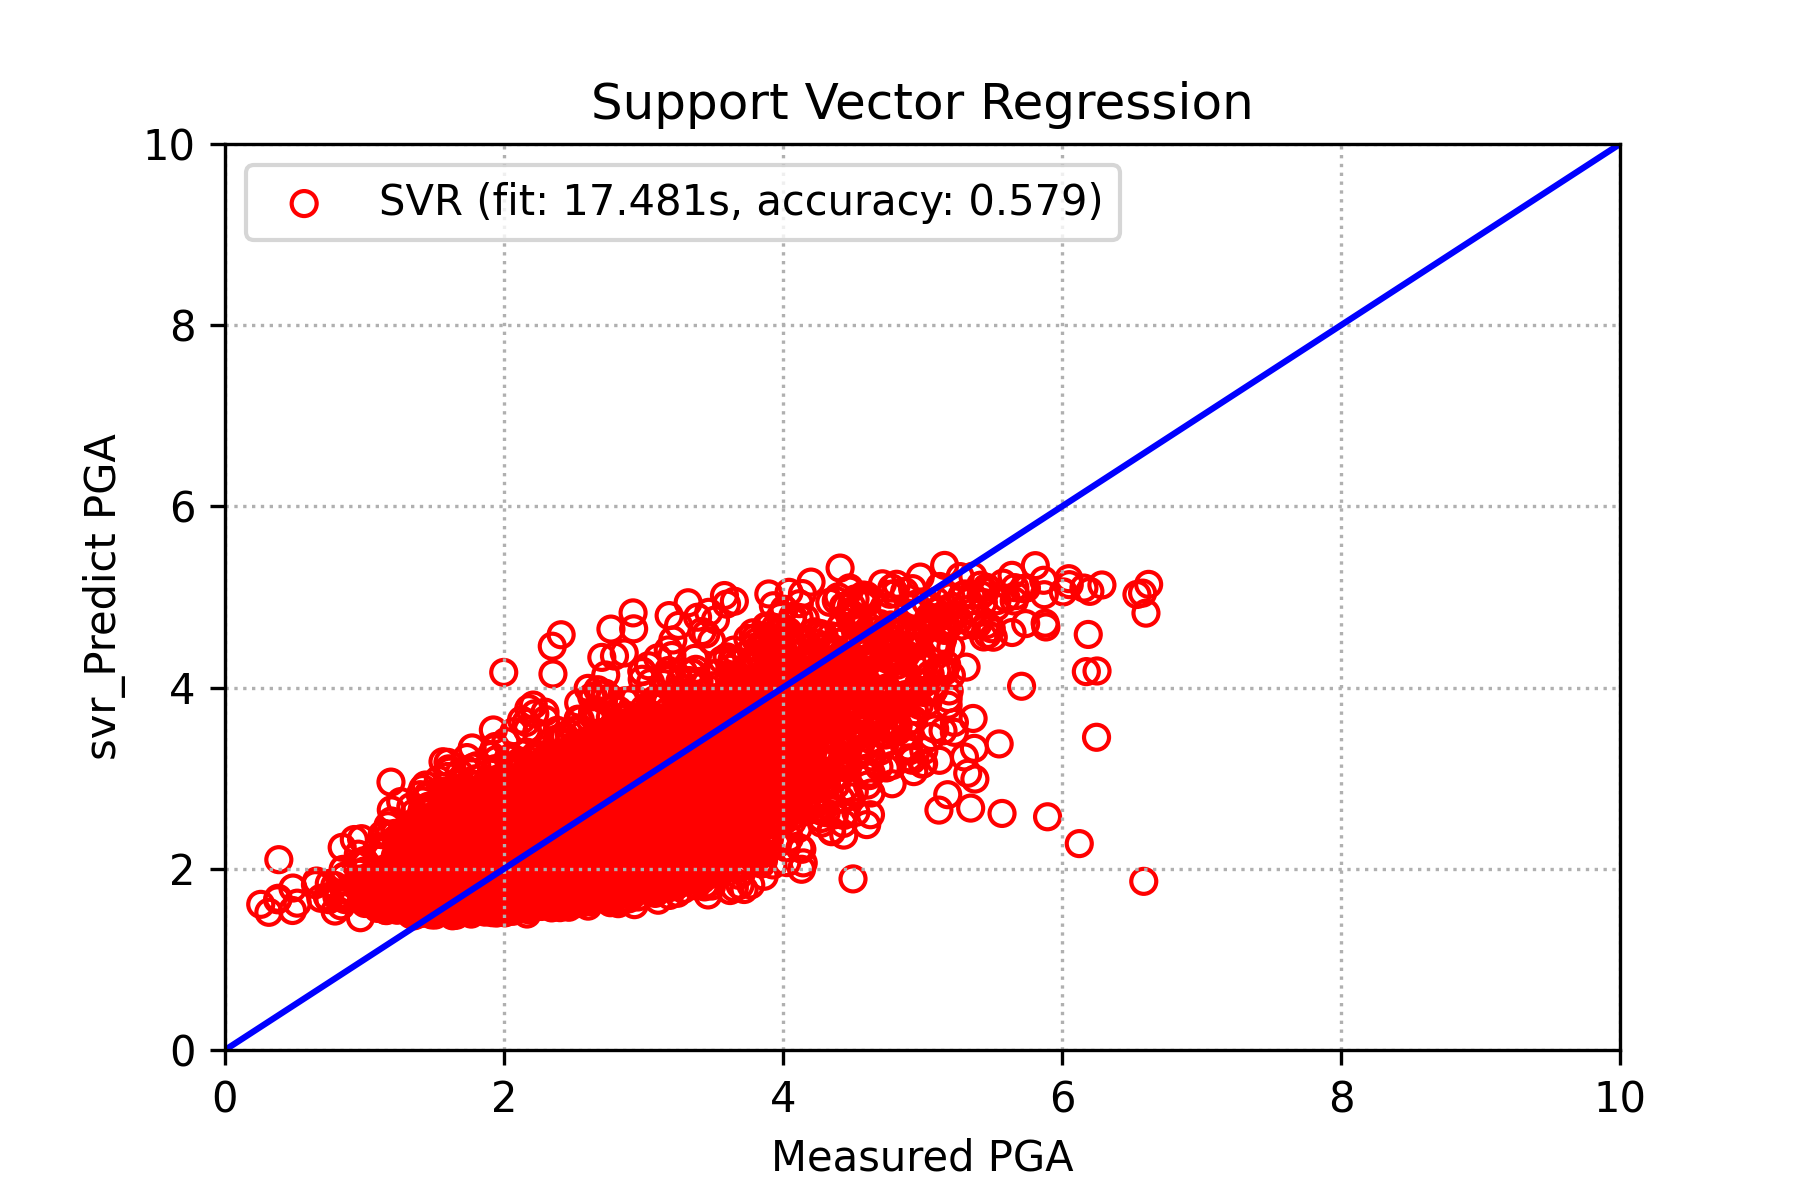
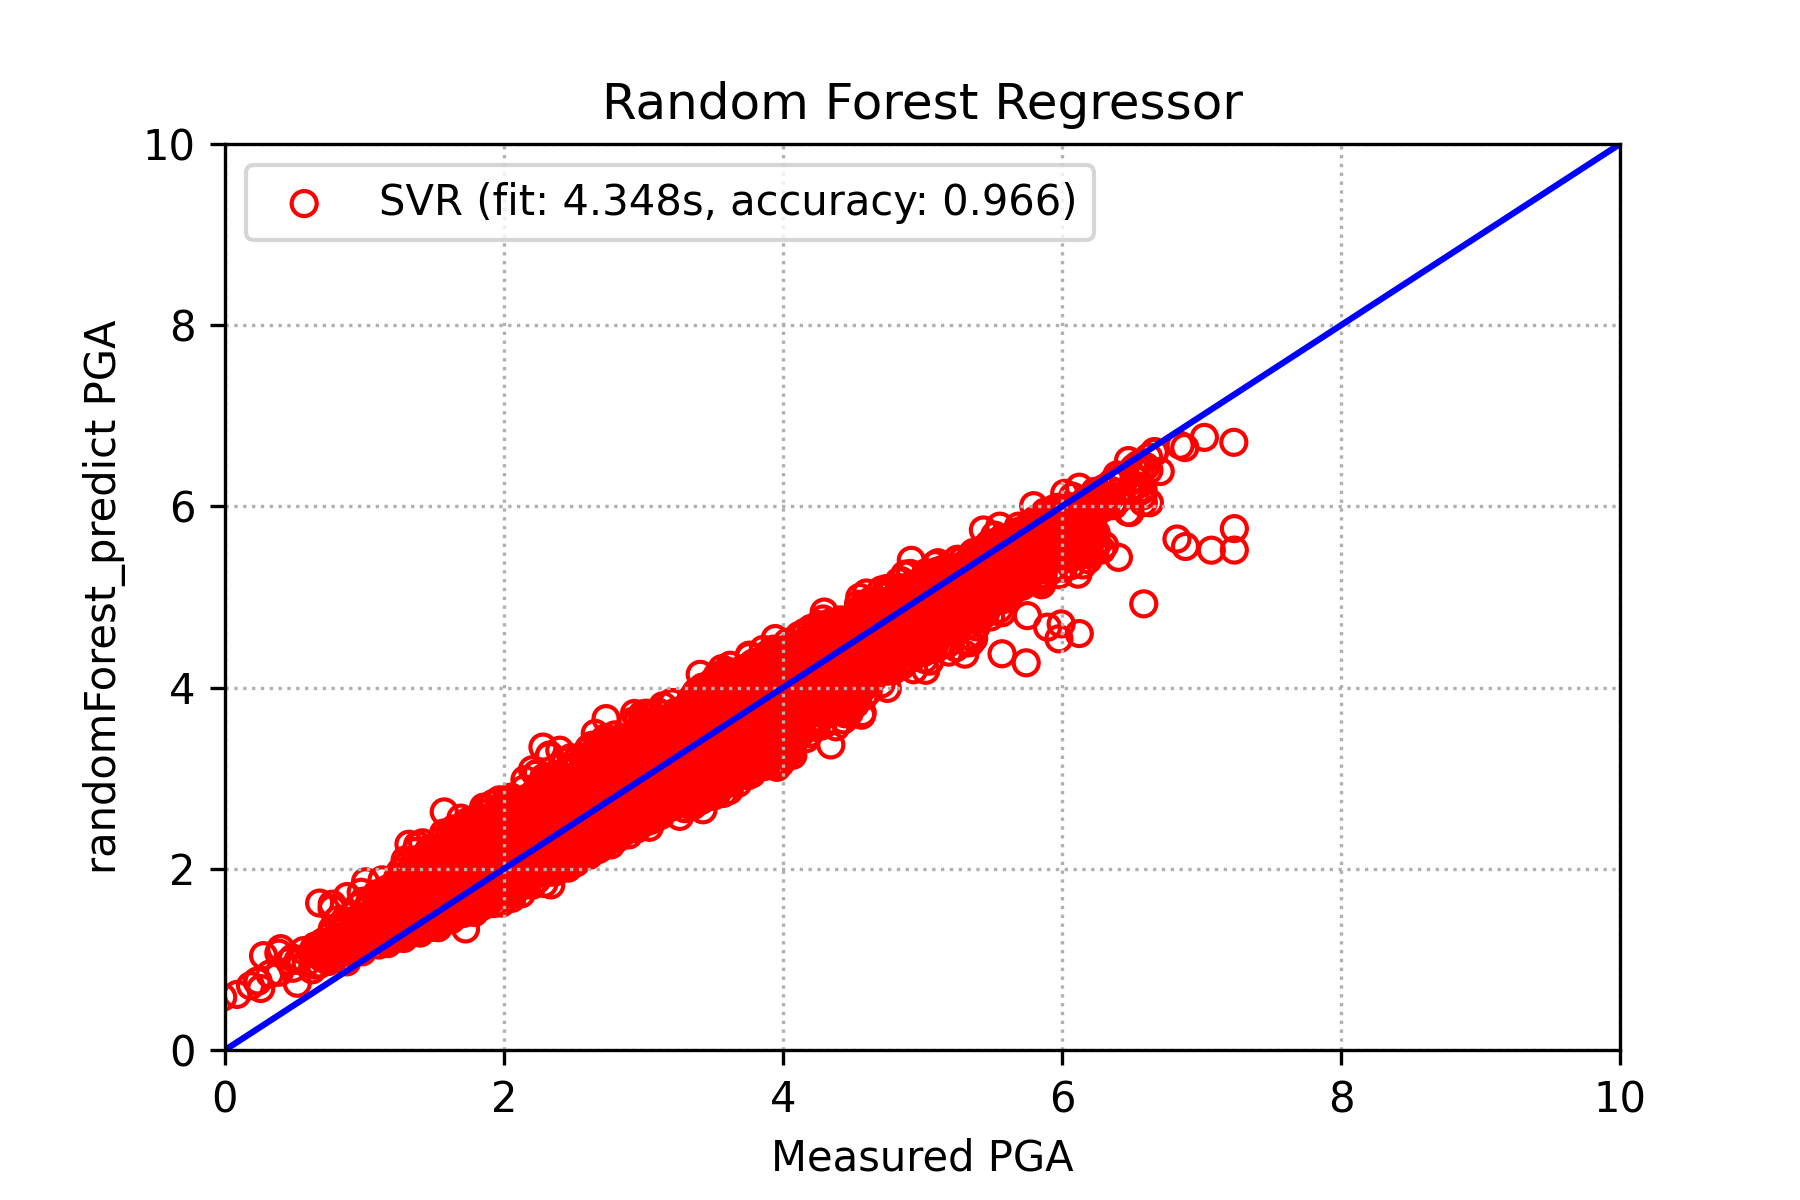
RF test good performance

diff --git a/machine_learning/SVR/RFR_TSMIP.py b/machine_learning/SVR/RFR_TSMIP.py
@@ -29,48 +29,69 @@ def two_scorer():
     return make_scorer(two_score, greater_is_better=True) # change for false if using MSE
 
 
-df = pd.read_csv("../../../TSMIP_FF.csv")
-# df.head(3)
+TSMIP_smogn_df = pd.read_csv("../../../TSMIP_SMOGN.csv")
+TSMIP_df = pd.read_csv("../../../TSMIP_FF_copy.csv")
 
-# 篩選資料 - mask方法
-# df_mask_Vs30=abs(df['Vs30']-300) < 1
-# df_mask_Mw=df['MW'] > 3
-# df_mask_Mw=df['MW'] < 4
-# filtered_df = df[df_mask_Vs30]
-# filtered_df.head(10)
+TSMIP_smogn_df['lnVs30'] = np.log(TSMIP_smogn_df['Vs30'])
+TSMIP_smogn_df['lnRrup'] = np.log(TSMIP_smogn_df['Rrup'])
+TSMIP_smogn_df['log10Vs30'] = np.log10(TSMIP_smogn_df['Vs30'])
+TSMIP_smogn_df['log10Rrup'] = np.log10(TSMIP_smogn_df['Rrup'])
+TSMIP_smogn_df['fault.type'] = TSMIP_smogn_df['fault.type'].str.replace("RO", "1")
+TSMIP_smogn_df['fault.type'] = TSMIP_smogn_df['fault.type'].str.replace("RV", "1")
+TSMIP_smogn_df['fault.type'] = TSMIP_smogn_df['fault.type'].str.replace("NM", "2")
+TSMIP_smogn_df['fault.type'] = TSMIP_smogn_df['fault.type'].str.replace("NO", "2")
+TSMIP_smogn_df['fault.type'] = TSMIP_smogn_df['fault.type'].str.replace("SS", "3")
+TSMIP_smogn_df['fault.type'] = pd.to_numeric(TSMIP_smogn_df['fault.type'])
+TSMIP_smogn_df['lnPGA(gal)'] = np.log(TSMIP_smogn_df['PGA']*980)
 
-# 篩選資料
-# filtered_df = df[(abs(df.Vs30-300)<1) & (df['MW'] > 3) & (df['MW'] < 5)]
-df['lnVs30'] = np.log(df['Vs30'])
-df['lnRrup'] = np.log(df['Rrup'])
-df['log10Vs30'] = np.log10(df['Vs30'])
-df['log10Rrup'] = np.log10(df['Rrup'])
-df['fault.type'] = df['fault.type'].str.replace("RO", "1")
-df['fault.type'] = df['fault.type'].str.replace("RV", "1")
-df['fault.type'] = df['fault.type'].str.replace("NM", "2")
-df['fault.type'] = df['fault.type'].str.replace("NO", "2")
-df['fault.type'] = df['fault.type'].str.replace("SS", "3")
-df['fault.type'] = pd.to_numeric(df['fault.type'])
-df['lnPGA(gal)'] = np.log(df['PGA']*980)
+TSMIP_df['lnVs30'] = np.log(TSMIP_df['Vs30'])
+TSMIP_df['lnRrup'] = np.log(TSMIP_df['Rrup'])
+TSMIP_df['log10Vs30'] = np.log10(TSMIP_df['Vs30'])
+TSMIP_df['log10Rrup'] = np.log10(TSMIP_df['Rrup'])
+TSMIP_df['fault.type'] = TSMIP_df['fault.type'].str.replace("RO", "1")
+TSMIP_df['fault.type'] = TSMIP_df['fault.type'].str.replace("RV", "1")
+TSMIP_df['fault.type'] = TSMIP_df['fault.type'].str.replace("NM", "2")
+TSMIP_df['fault.type'] = TSMIP_df['fault.type'].str.replace("NO", "2")
+TSMIP_df['fault.type'] = TSMIP_df['fault.type'].str.replace("SS", "3")
+TSMIP_df['fault.type'] = pd.to_numeric(TSMIP_df['fault.type'])
+TSMIP_df['lnPGA(gal)'] = np.log(TSMIP_df['PGA']*980)
 
 # 對資料標準化
 # df['PGA'] = (df['PGA'] - df['PGA'].mean()) / df['PGA'].std()
 
-x = df.loc[:,['lnVs30','MW','lnRrup','fault.type']]
-y = df['lnPGA(gal)'] 
+x_SMOGN = TSMIP_smogn_df.loc[:,['lnVs30','MW','lnRrup','fault.type']]
+y_SMOGN = TSMIP_smogn_df['lnPGA(gal)'] 
 
-x_train, x_test, y_train, y_test = train_test_split(x.values, y.values, random_state=5, train_size=0.8, shuffle=True)
+x = TSMIP_smogn_df.loc[:,['lnVs30','MW','lnRrup','fault.type']]
+y = TSMIP_smogn_df['lnPGA(gal)'] 
 
-# # 用paper方法當SVR參數，效果顯著
-randomForestModel = RandomForestRegressor(n_estimators=1000, criterion = 'squared_error',n_jobs=-1)
+x_train, x_test, y_train, y_test = train_test_split(x.values, y.values, random_state=50, train_size=0.8, shuffle=True)
+
+randomForestModel = RandomForestRegressor(n_estimators=1000, criterion = 'squared_error',max_depth=20, n_jobs=-1)
 t0 = time.time()
-grid_result = randomForestModel.fit(x_train,y_train)
+grid_result = randomForestModel.fit(x_SMOGN,y_SMOGN)
 fit_time = time.time() - t0
-svr_predict = randomForestModel.predict(x_test)
+randomForest_predict = randomForestModel.predict(x)
 # 評估，打分數
-score = randomForestModel.score(x_test,y_test)
+score = randomForestModel.score(x,y)
 print("accuracy_score : ",score)
 
 # # Cross_validation計算成績
-scores = cross_val_score(randomForestModel,x,y,cv=6,scoring=two_scorer())
+scores = cross_val_score(randomForestModel,x,y,cv=3,n_jobs=-1)
 print("R2 scores:",scores)
+
+
+plt.grid(linestyle=':')
+plt.scatter(y, randomForest_predict,marker='o',facecolors='none',edgecolors='r', \
+    label='SVR (fit: %.3fs, accuracy: %.3f)' % (fit_time, score)) #迴歸線.
+x=[0,2,4,6,8,10]
+y=[0,2,4,6,8,10]
+plt.plot(x, y, color='blue')
+plt.xlabel('Measured PGA')
+plt.ylabel('randomForest_predict PGA')
+plt.ylim(0,10)
+plt.xlim(0,10)
+plt.title('Random Forest Regressor')
+plt.legend()
+plt.savefig(f'PGA_comparison_SMOGN_predict.png',dpi=300)
+plt.show()

diff --git a/machine_learning/SVR/optuna_SVR_TSMIP.py b/machine_learning/SVR/optuna_SVR_TSMIP.py
@@ -18,21 +18,17 @@ def objective(trial):
     svr_epsilon = trial.suggest_loguniform('svr_epsilon', 1e-3, 1e-2)
     regressor_obj = SVR(C=svr_c,epsilon=svr_epsilon)
 
-    df = pd.read_csv("../../../TSMIP_smogn.csv")
-    df_test = pd.read_csv("../../../TSMIP_FF.csv")
-    df['lnVs30'] = np.log(df['Vs30'])
-    df['lnRrup'] = np.log(df['Rrup'])
-    x = df.loc[:,['lnVs30','MW','lnRrup']]
-    y = df['PGA']
-
-    df_test['lnVs30'] = np.log(df_test['Vs30'])
-    df_test['lnRrup'] = np.log(df_test['Rrup'])
-    x_test = df_test.loc[:,['lnVs30','MW','lnRrup']]
-    y_test = df_test['PGA']
+    # df = pd.read_csv("../../../TSMIP_smogn.csv")
+    TSMIP_df = pd.read_csv("../../../TSMIP_FF.csv")
+    TSMIP_df['lnVs30'] = np.log(TSMIP_df['Vs30'])
+    TSMIP_df['lnRrup'] = np.log(TSMIP_df['Rrup'])
+    TSMIP_df['lnPGA(gal)'] = np.log(TSMIP_df['PGA']*980)
+    x = TSMIP_df.loc[:,['lnVs30','MW','lnRrup']]
+    y = TSMIP_df['lnPGA(gal)']
 
     X_train, X_val, y_train, y_val = train_test_split(x, y, random_state=0, train_size=0.8)
 
-    regressor_obj.fit(x, y)
+    regressor_obj.fit(X_train, y_train)
     y_pred = regressor_obj.predict(X_val)
 
     error = r2_score(y_val, y_pred)
@@ -42,7 +38,8 @@ def objective(trial):
 #ToDo
 #SVR_TSMIP_4 新增SMOGN資料
 #SVR_TSMIP_5 SMOGN資料當訓練集 原本資料切20%當測試集
-study_name = 'SVR_TSMIP_5'
+#SVR_TSMIP_6 從頭來過，把y改成ln(PGA)，找TSMIP的最佳解
+study_name = 'SVR_TSMIP_6'
 study = optuna.create_study(study_name=study_name, storage="mysql://root@localhost/SVR_TSMIP",direction="maximize")  # Create a new study.
 study.optimize(objective, n_trials=100)  # Invoke optimization of the objective function.
 
